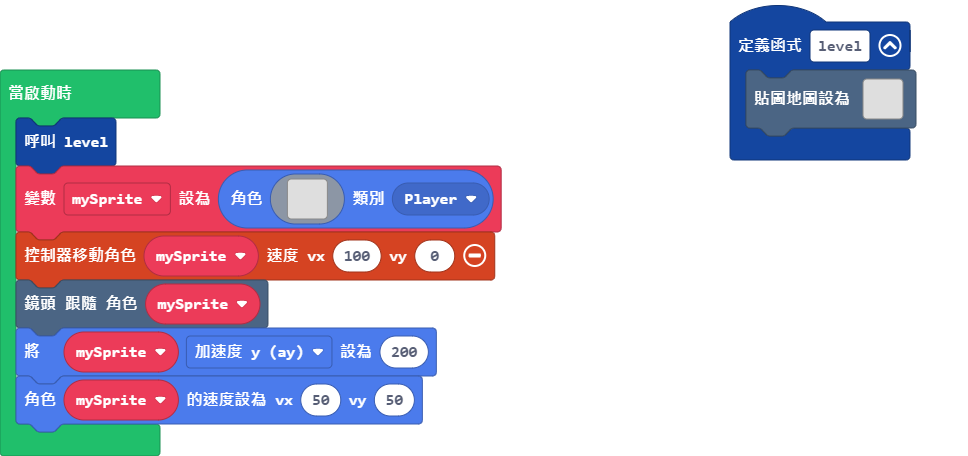
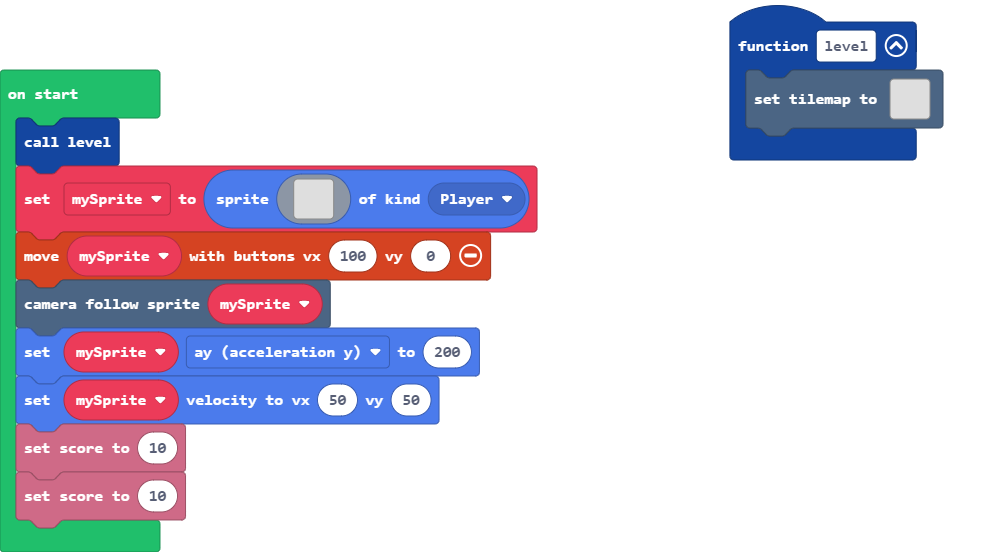
Update main.blocks, main.ts, tilemap.g.ts

diff --git a/tilemap.g.ts b/tilemap.g.ts
@@ -1,4 +1,4 @@
-// 自動生成的代碼。請勿編輯。
+// Auto-generated code. Do not edit.
 namespace myTiles {
     //% fixedInstance jres blockIdentity=images._tile
     export const transparency16 = image.ofBuffer(hex``);
@@ -49,4 +49,4 @@ namespace myTiles {
     })
 
 }
-// 自動生成的代碼。請勿編輯。
+// Auto-generated code. Do not edit.

diff --git a/main.ts b/main.ts
@@ -24,3 +24,5 @@ controller.moveSprite(mySprite, 100, 0)
 scene.cameraFollowSprite(mySprite)
 mySprite.ay = 200
 mySprite.setVelocity(50, 50)
+info.setScore(10)
+info.setScore(10)
